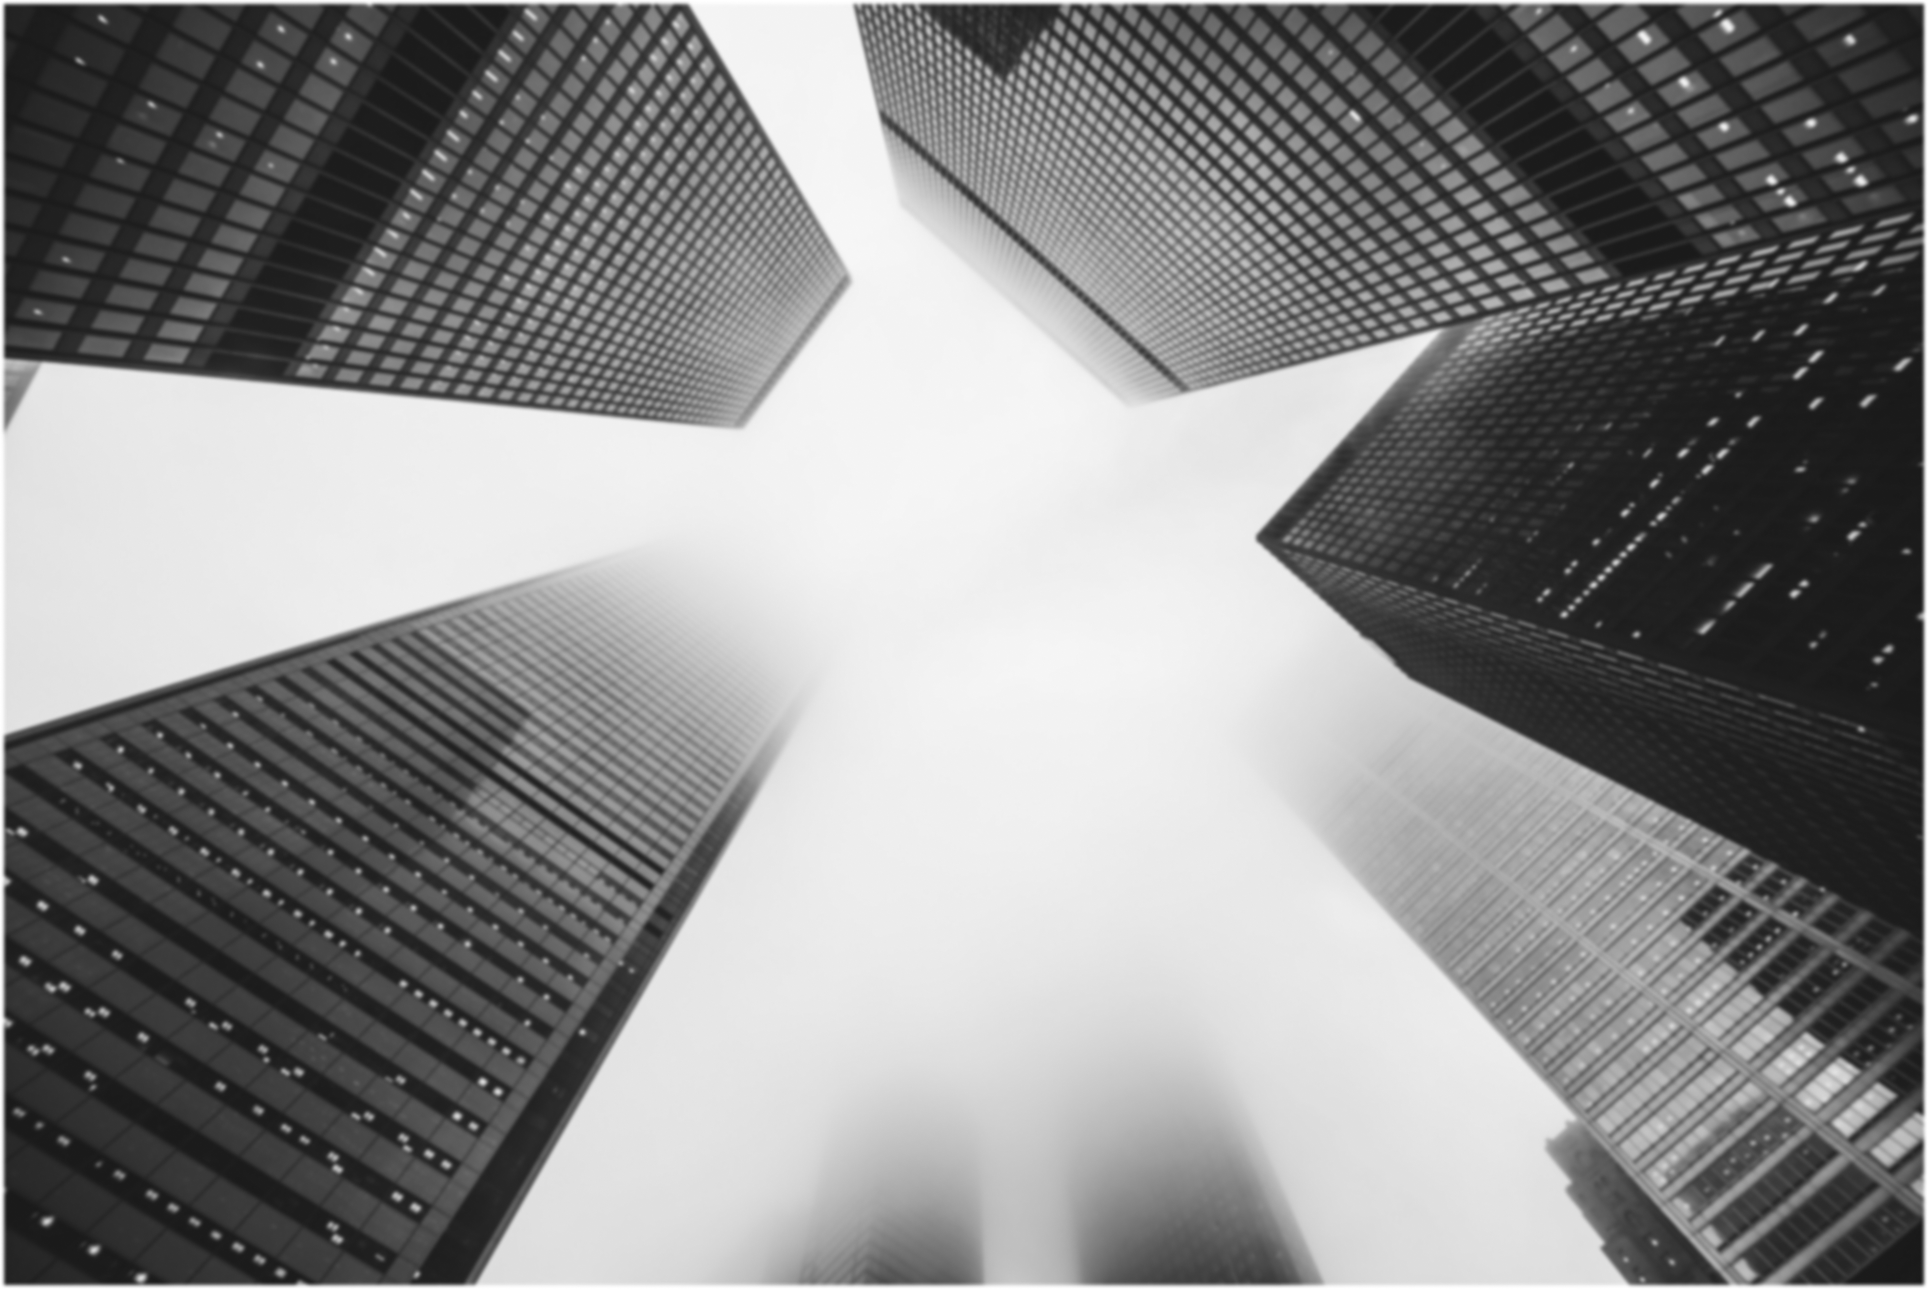
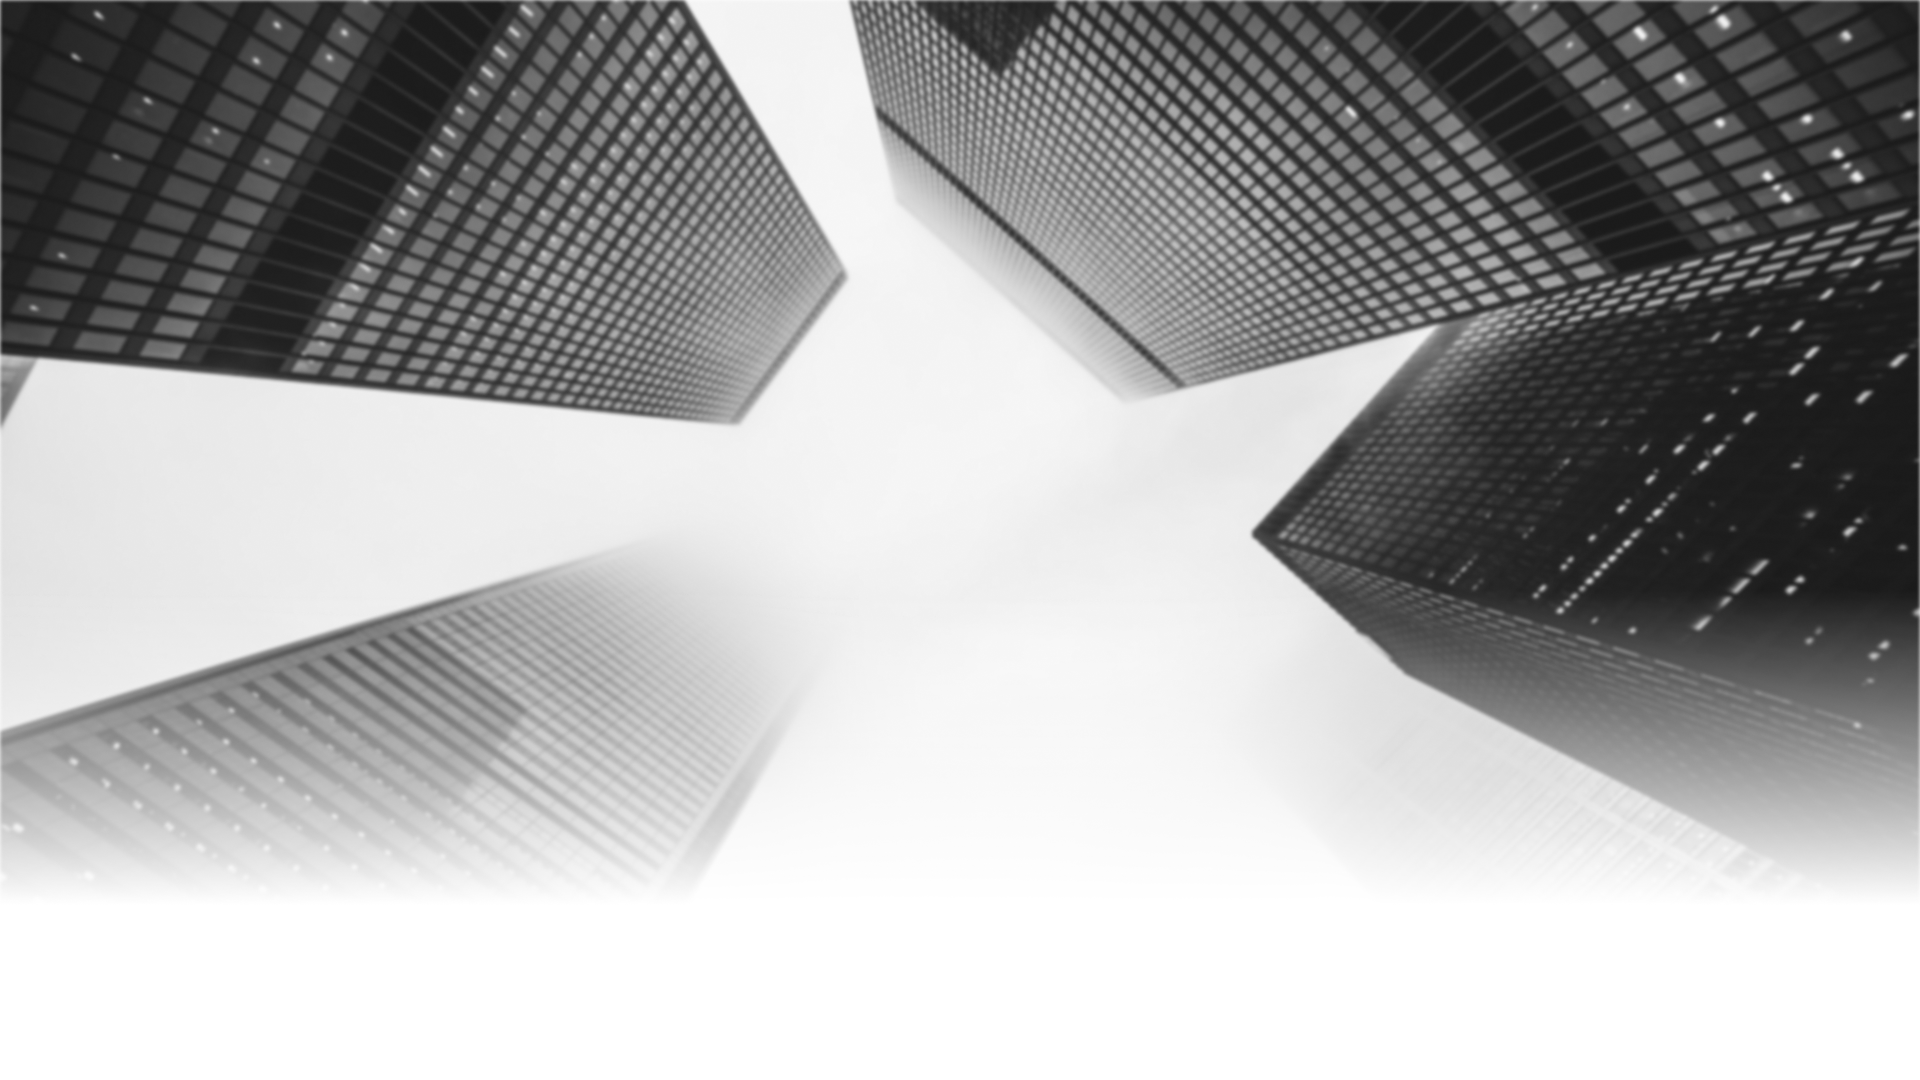
<feat(porto): hero, clients deco>

diff --git a/src/components/portofolio/PreviousClients.js b/src/components/portofolio/PreviousClients.js
@@ -127,7 +127,7 @@ export default function PreviousClients() {
       {createBackground("dark")}
 
       {/* Section 1: Title */}
-      <div className="relative hidden lg:flex flex-col justify-center items-center w-full h-[100vh] px-[50px] bg-[#0A1E22]/[47%] overflow-clip">
+      <div className="relative hidden lg:flex flex-col justify-center items-center w-full h-[100vh] px-[50px] overflow-clip">
         {/* Background */}
         <div className="absolute w-full h-full -z-[998] overflow-clip">
           <ImgF
@@ -135,12 +135,8 @@ export default function PreviousClients() {
             src="/img/portofolio/hero_bg.png"
           />
         </div>
-        {/* <div className="absolute w-full h-full -z-[997] -top-[50%]">
-          <ImgF
-            alt="portofolio shading background"
-            src="/img/portofolio/back_rectangle.png"
-          />
-        </div> */}
+        <div className="absolute w-full h-full -z-[997] bg-gradient-to-b from-transparent from-[70%] to-lightWhite to-[90%]" />
+        <div className="absolute w-full h-full -z-[996] bg-black opacity-[85%]" />
 
         {/* Hero */}
         <h1 className="text-lightWhite text-center text-[4.9vw]/[4.8vw] font-avenirBlack 2xl:text-[75px]/[64.5px]">
@@ -161,7 +157,17 @@ export default function PreviousClients() {
       </div>
 
       {/* Section 2: Portos */}
-      <div className="hidden lg:flex flex-col justify-center items-center w-full h-[100vh] px-[50px]">
+      <div className="relative hidden lg:flex flex-col justify-center items-center w-full h-[100vh] px-[50px]">
+        {/* Background */}
+        <div className="absolute w-full h-full top-0 -z-[998] overflow-clip">
+          <ImgF
+            alt="portofolio hero background"
+            src="/img/portofolio/hero_bg.png"
+          />
+        </div>
+        <div className="absolute w-full h-full -z-[997] bg-gradient-to-b from-lightWhite from-[20%] via-transparent via-[45%] to-black to-[75%]" />
+        <div className="absolute w-full h-full top-0 -z-[997] bg-black opacity-[85%]" />
+        
         <div className="w-full h-full 2xl:w-[1536px]">
           {/* Card Frame */}
           <div className="flex w-full justify-center items-end h-[85%] pb-[50px] overflow-clip">
